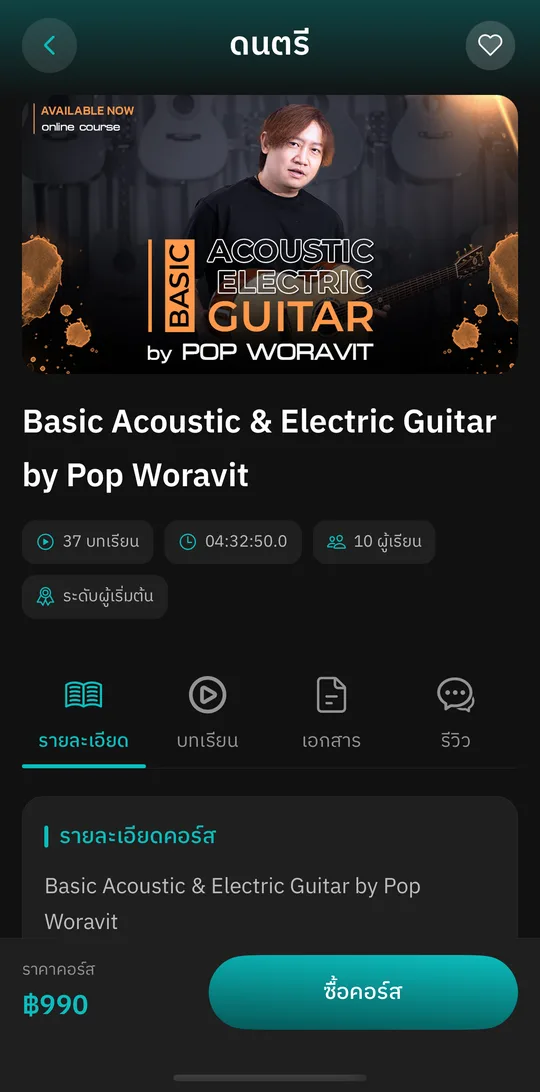
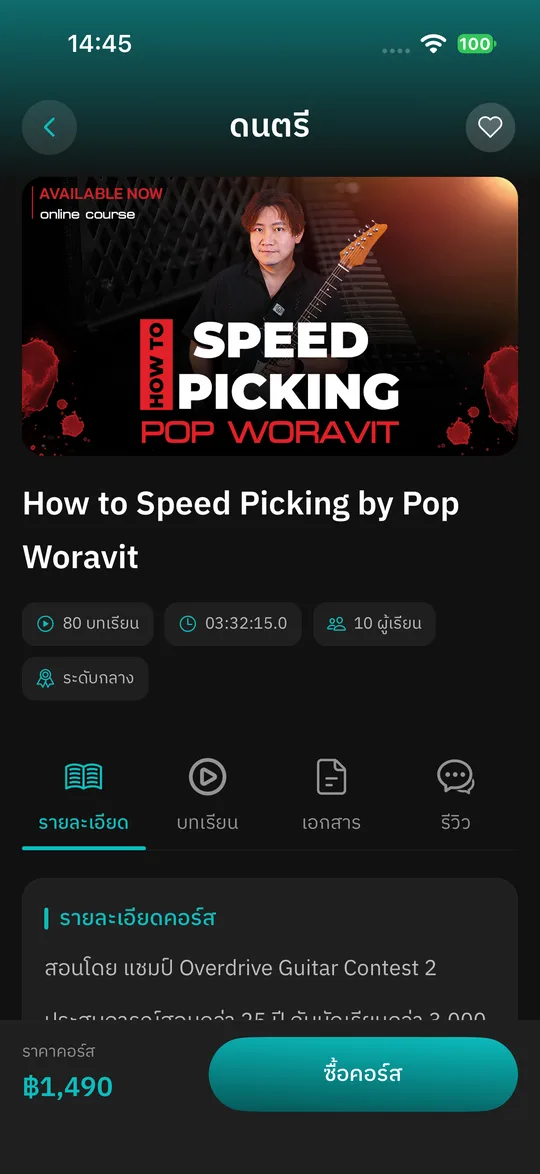
Update screenshots

diff --git a/lib/content.ts b/lib/content.ts
@@ -37,7 +37,7 @@ export const flow: Step[] = [
     img: "shots/course-paid.webp",
     title: "Buy",
     detail: "Buy the whole course from its detail page, or single lessons from the lesson list. Both hand off to the payment API.",
-    alt: "Guitar course detail screen with a ฿990 price and a Buy course button",
+    alt: "Speed Picking guitar course detail screen with a ฿1,490 price and a Buy course button",
   },
 ];
 
@@ -55,12 +55,12 @@ export const hipsbook = {
   ],
   stack: ["Next.js", "React Native", "TypeScript", "React", "Tailwind CSS", "REST APIs"],
   gallery: [
+    { img: "shots/signup-2.webp", caption: "Sign-up form: password rules and terms before the account is created", alt: "Bottom of the Hipsbook sign-up form with password rules, confirm password, a terms checkbox and a disabled sign-up button" },
     { img: "shots/signin.webp", caption: "Sign in with email or Google, X, LINE and Apple", alt: "Hipsbook sign-in screen with email, password and social login buttons" },
     { img: "shots/forgot.webp", caption: "Forgot password: reset by email", alt: "Hipsbook forgot-password screen with an email field and a reset button" },
     { img: "shots/catalog.webp", caption: "Course catalog with search and filters", alt: "Hipsbook list of all courses with search bar" },
-    { img: "shots/lessons-paid.webp", caption: "Buy single lessons: each locked lesson has its own price", alt: "Lesson list where each locked lesson shows its own buy button, ฿47 and ฿39" },
-    { img: "shots/documents.webp", caption: "Paid sheet music and audio attached to lessons", alt: "Lesson documents list with PDF purchase buttons and an audio track" },
-    { img: "shots/player.webp", caption: "Lesson player with All, Unlocked and Buy more tabs", alt: "Hipsbook video lesson player above a list of guitar lessons" },
+    { img: "shots/lessons-paid.webp", caption: "Buy single lessons: each locked lesson has its own price", alt: "Lesson list where each locked lesson shows its own buy button, ฿23 and ฿20" },
+    { img: "shots/player.webp", caption: "Lesson player with All, Unlocked and Buy more tabs", alt: "Hipsbook video lesson player above a list of saxophone lessons, one unlocked and one with a ฿20 buy button" },
     { img: "shots/live.webp", caption: "Live classes: now live, recommended, following", alt: "Hipsbook live page with search, filter chips and an empty state" },
     { img: "shots/go-live.webp", caption: "Go-live setup: camera check, cover, title, audience", alt: "Hipsbook start-live form with camera preview, cover upload, title, description and visibility options" },
   ],

diff --git a/components/Phone.tsx b/components/Phone.tsx
@@ -11,7 +11,7 @@ type Props = {
   priority?: boolean;
 };
 
-// A screenshot in a thin device frame. Screenshots are 540×1092 (iPhone with the status bar cropped off).
+// A screenshot in a thin device frame. Screenshots are full iPhone screens at 540×1174.
 export function Phone({ src, alt, className = "", priority = false }: Props) {
   return (
     <div
@@ -21,9 +21,9 @@ export function Phone({ src, alt, className = "", priority = false }: Props) {
         src={asset(src)}
         alt={alt}
         width={540}
-        height={1092}
+        height={1174}
         loading="eager"
-        className="block aspect-[540/1092] w-full rounded-[1.65rem] object-cover"
+        className="block aspect-[540/1174] w-full rounded-[1.65rem] object-cover"
       />
     </div>
   );

diff --git a/README.md b/README.md
@@ -58,4 +58,4 @@ public/
 
 ### แก้เนื้อหา
 
-แก้ข้อความทั้งหมดได้ที่ `lib/content.ts` ไฟล์เดียว เพิ่มภาพหน้าจอใหม่ได้ที่ `public/shots/` (แนะนำ .webp ขนาด 540×1092 (ตัดแถบสถานะด้านบนออก))
+แก้ข้อความทั้งหมดได้ที่ `lib/content.ts` ไฟล์เดียว เพิ่มภาพหน้าจอใหม่ได้ที่ `public/shots/` (แนะนำ .webp ขนาด 540×1174 (ภาพเต็มจอ iPhone))
